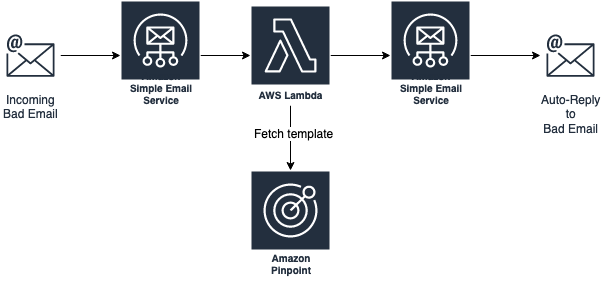
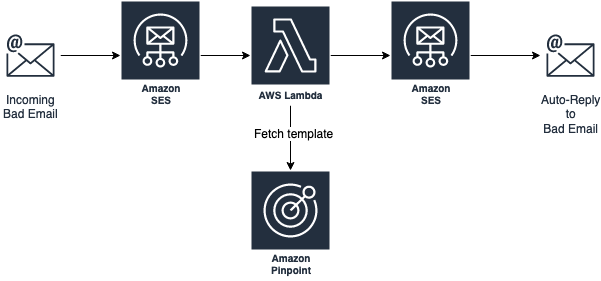
Minor cleanup in wordage, diagram, etc.

Changed region(s): [[0.6589, 0.2562, 0.7787, 0.3701], [0.2097, 0.2562, 0.3295, 0.3701]]

diff --git a/README.md b/README.md
@@ -67,6 +67,7 @@ The architecture below allows one to deploy a templated auto-response behavior f
 
 Notes:
 1. While most of the configuration is done on the SES side (as that is the one processing received emails), even so called "Pinpoint-only" deployments can use this approach as the email configurations are shared between the two services already.
+1. Ensure your SES domain is verified and you are out of the sandbox. If still in the sandbox, you can only send email to the Amazon SES mailbox simulator and _to_ email addresses/domains that you have verified.
 1. It is assumed that no additional tracking and actions are needed on such rejected and auto-replied emails, but you can further modify the flow by moving the rule around, adding more actions, and even specifying a particular SES Configuration Set.
 1. Pinpoint template instead of SES template is used as the latter does not currently have Console interface allowing for easier modification.
 
